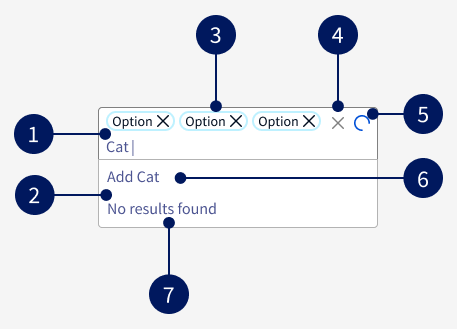
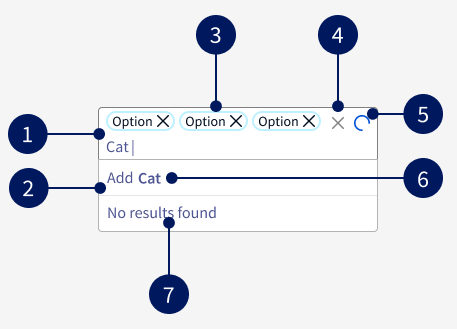
feat(combobox): update add new element design

diff --git a/packages/ods/src/components/combobox/src/index.html b/packages/ods/src/components/combobox/src/index.html
@@ -22,67 +22,67 @@
 <button>Focus</button>
 
 <!--  <p style="margin-bottom: 200px;">Default</p>-->
-<!--  <p>Default</p>-->
-<!--  <label for="default">My combobox</label>-->
-<!--  <ods-combobox id="default" is-clearable>-->
-<!--    <ods-combobox-item value="chocolate">-->
-<!--      Chocolate-->
-<!--    </ods-combobox-item>-->
-<!--    <ods-combobox-item value="chocolate-with-nuts">-->
-<!--      Chocolate with nuts-->
-<!--    </ods-combobox-item>-->
-<!--    <ods-combobox-item value="coconut">-->
-<!--      Coconut-->
-<!--    </ods-combobox-item>-->
-<!--    <ods-combobox-item value="light-mint">-->
-<!--      Light mint-->
-<!--    </ods-combobox-item>-->
-<!--    <ods-combobox-item value="mint">-->
-<!--      Mint-->
-<!--    </ods-combobox-item>-->
-<!--    <ods-combobox-item value="strawberry">-->
-<!--      Strawberry-->
-<!--    </ods-combobox-item>-->
-<!--    <ods-combobox-item value="vanilla">-->
-<!--      Vanilla-->
-<!--    </ods-combobox-item>-->
-<!--    <ods-combobox-item value="white-chocolate">-->
-<!--      White chocolate-->
-<!--    </ods-combobox-item>-->
-<!--  </ods-combobox>-->
-<!--  <button id="default-change-value">Change value</button>-->
-<!--  <button id="default-open">Open</button>-->
-<!--  <button id="default-close">Close</button>-->
-<!--  <script>-->
-<!--    const defaultCombobox = document.querySelector('#default');-->
-<!--    const defaultButtonChangeValue = document.querySelector('#default-change-value');-->
-<!--    const defaultButtonClose = document.querySelector('#default-close');-->
-<!--    const defaultButtonOpen = document.querySelector('#default-open');-->
+  <p>Default</p>
+  <label for="default">My combobox</label>
+  <ods-combobox id="default" is-clearable highlight-results>
+    <ods-combobox-item value="chocolate">
+      Chocolate
+    </ods-combobox-item>
+    <ods-combobox-item value="chocolate-with-nuts">
+      Chocolate with nuts
+    </ods-combobox-item>
+    <ods-combobox-item value="coconut">
+      Coconut
+    </ods-combobox-item>
+    <ods-combobox-item value="light-mint">
+      Light mint
+    </ods-combobox-item>
+    <ods-combobox-item value="mint">
+      Mint
+    </ods-combobox-item>
+    <ods-combobox-item value="strawberry">
+      Strawberry
+    </ods-combobox-item>
+    <ods-combobox-item value="vanilla">
+      Vanilla
+    </ods-combobox-item>
+    <ods-combobox-item value="white-chocolate">
+      White chocolate
+    </ods-combobox-item>
+  </ods-combobox>
+  <button id="default-change-value">Change value</button>
+  <button id="default-open">Open</button>
+  <button id="default-close">Close</button>
+  <script>
+    const defaultCombobox = document.querySelector('#default');
+    const defaultButtonChangeValue = document.querySelector('#default-change-value');
+    const defaultButtonClose = document.querySelector('#default-close');
+    const defaultButtonOpen = document.querySelector('#default-open');
 
-<!--    defaultCombobox.addEventListener('odsChange', (e) => {-->
-<!--      // console.log(e.detail);-->
-<!--    });-->
+    defaultCombobox.addEventListener('odsChange', (e) => {
+      // console.log(e.detail);
+    });
 
-<!--    defaultButtonChangeValue.addEventListener('click', () => {-->
-<!--      // defaultCombobox.value = 'Dummy';-->
-<!--      // defaultCombobox.clear();-->
-<!--      // defaultCombobox.reset();-->
+    defaultButtonChangeValue.addEventListener('click', () => {
+      // defaultCombobox.value = 'Dummy';
+      // defaultCombobox.clear();
+      // defaultCombobox.reset();
 
-<!--      if (defaultCombobox.hasAttribute('highlight-results')) {-->
-<!--        defaultCombobox.removeAttribute('highlight-results');-->
-<!--      } else {-->
-<!--        defaultCombobox.setAttribute('highlight-results', 'true');-->
-<!--      }-->
-<!--    });-->
+      if (defaultCombobox.hasAttribute('highlight-results')) {
+        defaultCombobox.removeAttribute('highlight-results');
+      } else {
+        defaultCombobox.setAttribute('highlight-results', 'true');
+      }
+    });
 
-<!--    defaultButtonClose.addEventListener('click', () => {-->
-<!--      defaultCombobox.close();-->
-<!--    });-->
+    defaultButtonClose.addEventListener('click', () => {
+      defaultCombobox.close();
+    });
 
-<!--    defaultButtonOpen.addEventListener('click', () => {-->
-<!--      defaultCombobox.open();-->
-<!--    });-->
-<!--  </script>-->
+    defaultButtonOpen.addEventListener('click', () => {
+      defaultCombobox.open();
+    });
+  </script>
 
 <!--  <p>Disabled</p>-->
 <!--  <ods-combobox id="default" default-value="coconut" is-disabled>-->

diff --git a/packages/ods/src/components/combobox/src/components/ods-combobox/ods-combobox.tsx b/packages/ods/src/components/combobox/src/components/ods-combobox/ods-combobox.tsx
@@ -15,6 +15,7 @@ type ResultElement = HTMLElement & OdsComboboxItem & { groupId?: string };
 type ResultGroup = HTMLElement & OdsComboboxGroup;
 
 const FOCUSED_CLASS = 'ods-combobox__search--focused';
+const HIGHLIGHT_CLASS = 'ods-combobox-item--highlighted';
 
 @Component({
   formAssociated: true,
@@ -336,7 +337,7 @@ export class OdsCombobox implements OdsFormElement {
       });
 
       this.markInstance?.mark(value, {
-        className: 'ods-combobox-item--highlighted',
+        className: HIGHLIGHT_CLASS,
         element: 'span',
       });
 
@@ -635,7 +636,10 @@ export class OdsCombobox implements OdsFormElement {
 
     if (isANewItem(this.inputElement?.value, this.resultElements, this.currentSelections)) {
       this.createNewElement.value = this.inputElement?.value || '';
-      this.createNewElement.innerText = `${this.addNewElementLabel} ${this.inputElement?.value}`;
+
+      this.createNewElement.innerHTML = this.highlightResults
+        ? `${this.addNewElementLabel} <span class="${HIGHLIGHT_CLASS}">${this.inputElement?.value}</span>`
+        : `${this.addNewElementLabel} ${this.inputElement?.value}`;
 
       if (this.resultElements.length && this.resultElements[0].id !== CREATE_NEW_ID) {
         this.createNewElement.isVisible = true;
@@ -773,6 +777,7 @@ export class OdsCombobox implements OdsFormElement {
           role="listbox"
           tabindex="-1">
           <ods-combobox-item
+            class="ods-combobox__results__new"
             id={ CREATE_NEW_ID }
             isVisible={ false }
             ref={ (el: unknown) => this.createNewElement = el as ResultElement }

diff --git a/packages/storybook/stories/components/combobox/combobox.stories.ts b/packages/storybook/stories/components/combobox/combobox.stories.ts
@@ -267,7 +267,38 @@ export const DemoMultiple: StoryObj = {
 export const Clearable: StoryObj = {
   tags: ['isHidden'],
   render: () => html`
-<ods-combobox is-clearable>
+<label for="combobox-clearable-single">Single</label>
+<ods-combobox id="combobox-clearable-single" is-clearable>
+  <ods-combobox-item value="chocolate">
+    Chocolate
+  </ods-combobox-item>
+  <ods-combobox-item value="chocolate-with-nuts">
+    Chocolate with nuts
+  </ods-combobox-item>
+  <ods-combobox-item value="coconut">
+    Coconut
+  </ods-combobox-item>
+  <ods-combobox-item value="light-mint">
+    Light mint
+  </ods-combobox-item>
+  <ods-combobox-item value="mint">
+    Mint
+  </ods-combobox-item>
+  <ods-combobox-item value="strawberry">
+    Strawberry
+  </ods-combobox-item>
+  <ods-combobox-item value="vanilla">
+    Vanilla
+  </ods-combobox-item>
+  <ods-combobox-item value="white-chocolate">
+    White chocolate
+  </ods-combobox-item>
+</ods-combobox>
+
+<br /><br />
+
+<label for="combobox-clearable-multiple">Multiple</label>
+<ods-combobox allow-multiple id="combobox-clearable-multiple" is-clearable>
   <ods-combobox-item value="chocolate">
     Chocolate
   </ods-combobox-item>

diff --git a/packages/ods/src/components/combobox/src/components/ods-combobox/ods-combobox.scss b/packages/ods/src/components/combobox/src/components/ods-combobox/ods-combobox.scss
@@ -125,6 +125,11 @@ $ods-combobox-vertical-padding: 4px;
       border-radius: var(--ods-border-radius-sm) var(--ods-border-radius-sm) 0 0;
     }
 
+    &__new {
+      box-sizing: border-box;
+      border-bottom: solid $ods-combobox-border-size var(--ods-color-neutral-100);;
+    }
+
     &__empty {
       display: flex;
       align-items: center;
